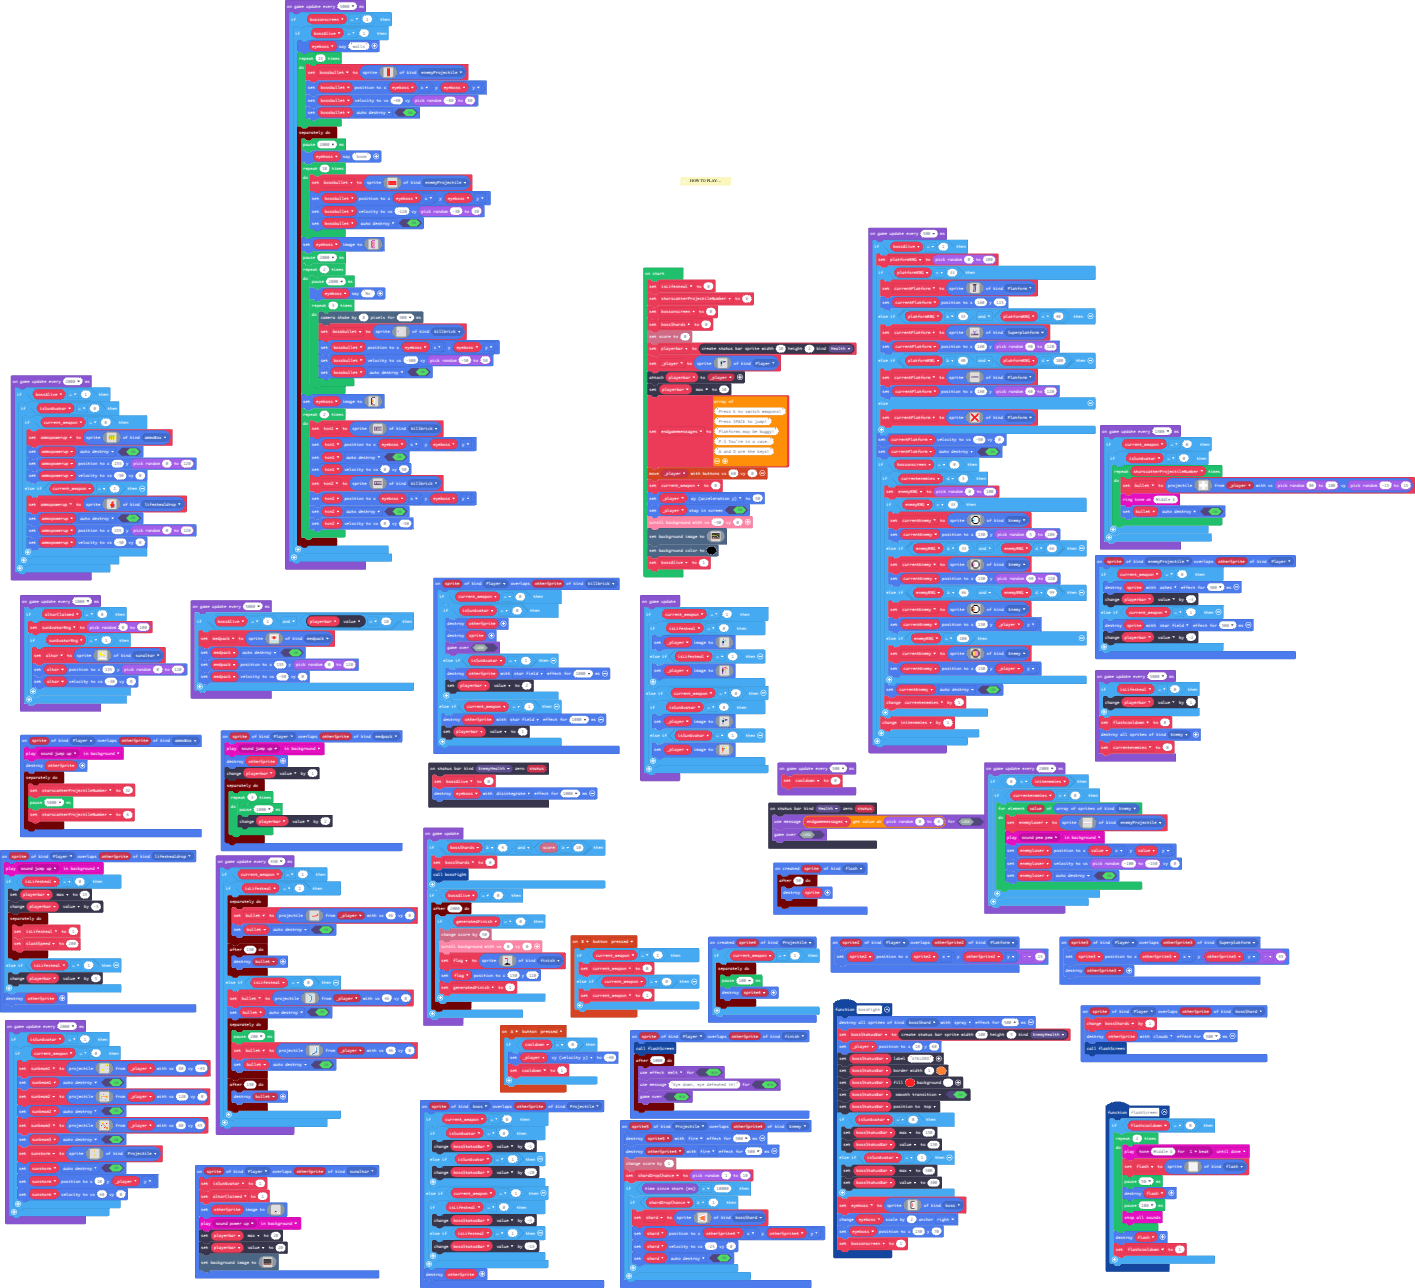
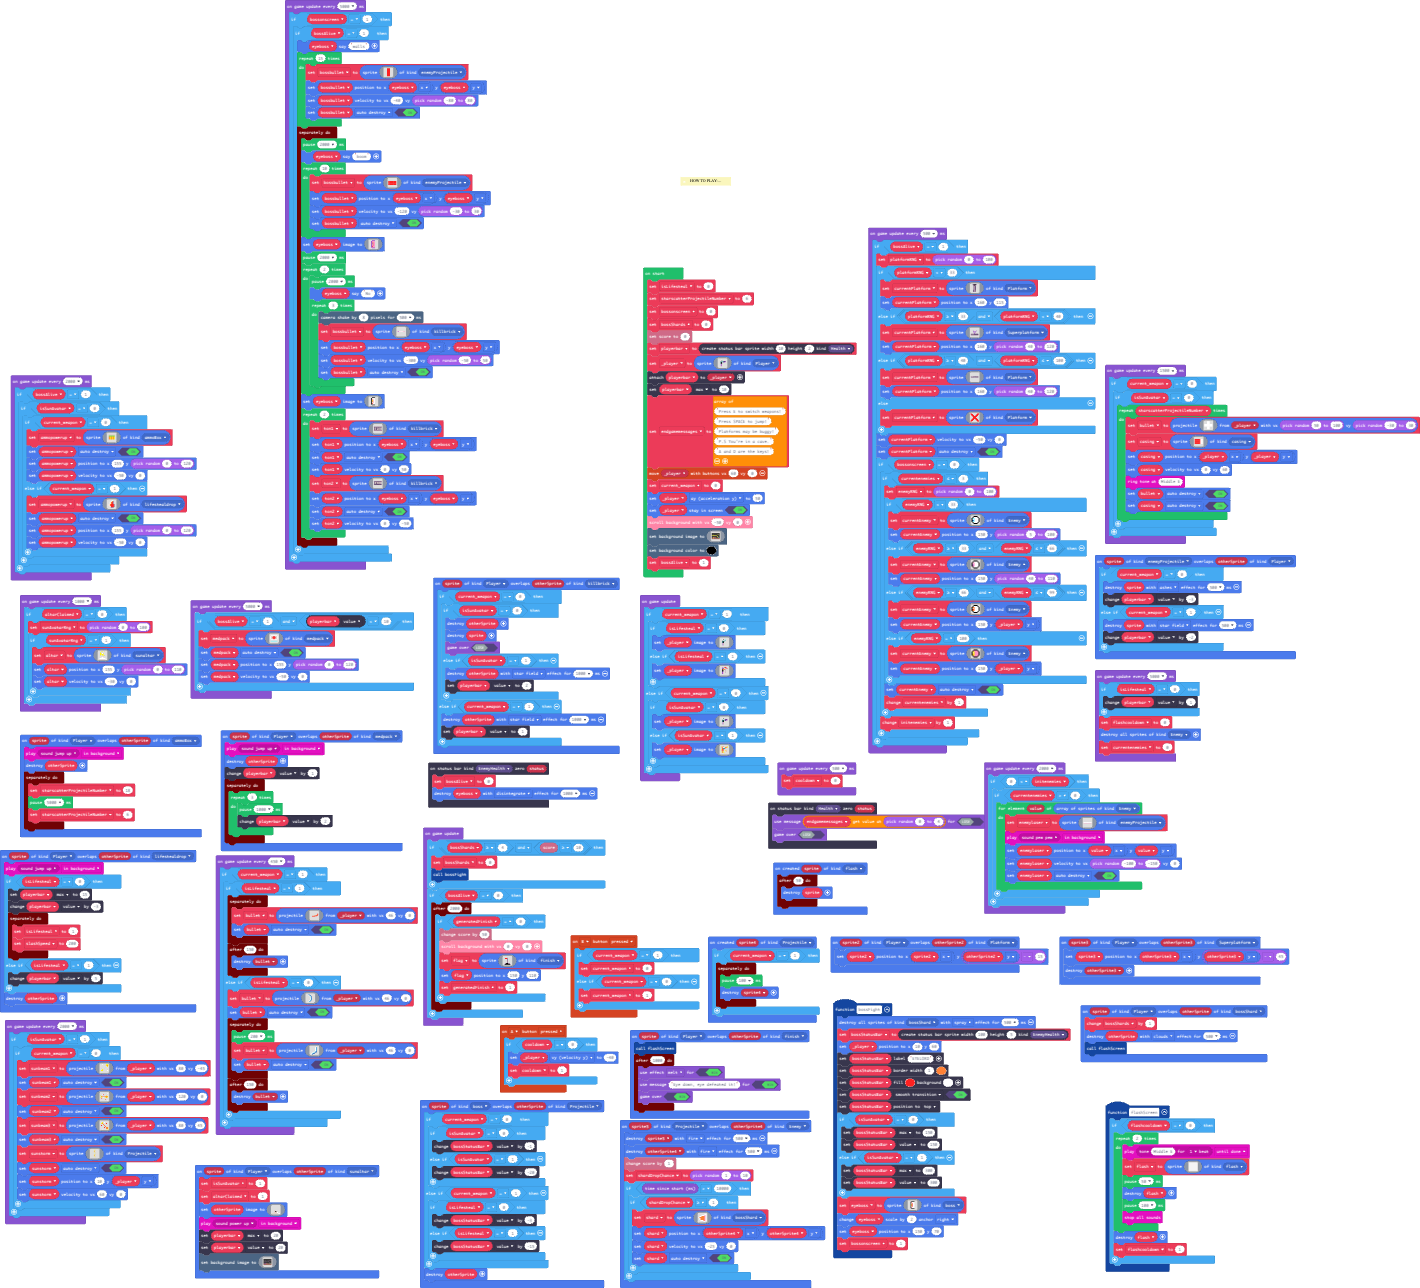
Update main.blocks, main.ts

diff --git a/main.ts b/main.ts
@@ -13,6 +13,7 @@ namespace SpriteKind {
     export const ammoBox = SpriteKind.create()
     export const lifestealdrop = SpriteKind.create()
     export const sunaltar = SpriteKind.create()
+    export const casing = SpriteKind.create()
 }
 /**
  * HOW TO PLAY:
@@ -557,7 +558,7 @@ sprites.onOverlap(SpriteKind.Player, SpriteKind.ammoBox, function (sprite, other
     music.play(music.melodyPlayable(music.jumpUp), music.PlaybackMode.InBackground)
     sprites.destroy(otherSprite)
     timer.background(function () {
-        starscatterProjectileNumber = 32
+        starscatterProjectileNumber = 18
         pause(5000)
         starscatterProjectileNumber = 6
     })
@@ -571,6 +572,7 @@ let currentEnemy: Sprite = null
 let enemyRNG = 0
 let currentPlatform: Sprite = null
 let platformRNG = 0
+let casing: Sprite = null
 let bullet: Sprite = null
 let altar: Sprite = null
 let sunAvatarRng = 0
@@ -1204,9 +1206,18 @@ game.onUpdateInterval(1500, function () {
                     . 1 . 
                     1 1 1 
                     . 1 . 
-                    `, _player, randint(80, 100), randint(-15, 15))
+                    `, _player, randint(50, 100), randint(-30, 30))
+                casing = sprites.create(img`
+                    2 2 2 2 2 1 1 
+                    2 2 2 2 2 1 1 
+                    2 2 2 2 2 1 1 
+                    2 2 2 2 2 1 1 
+                    `, SpriteKind.casing)
+                casing.setPosition(_player.x, _player.y)
+                casing.setVelocity(0, 60)
                 music.ringTone(330)
                 bullet.setFlag(SpriteFlag.AutoDestroy, true)
+                casing.setFlag(SpriteFlag.AutoDestroy, true)
             }
         }
     }
